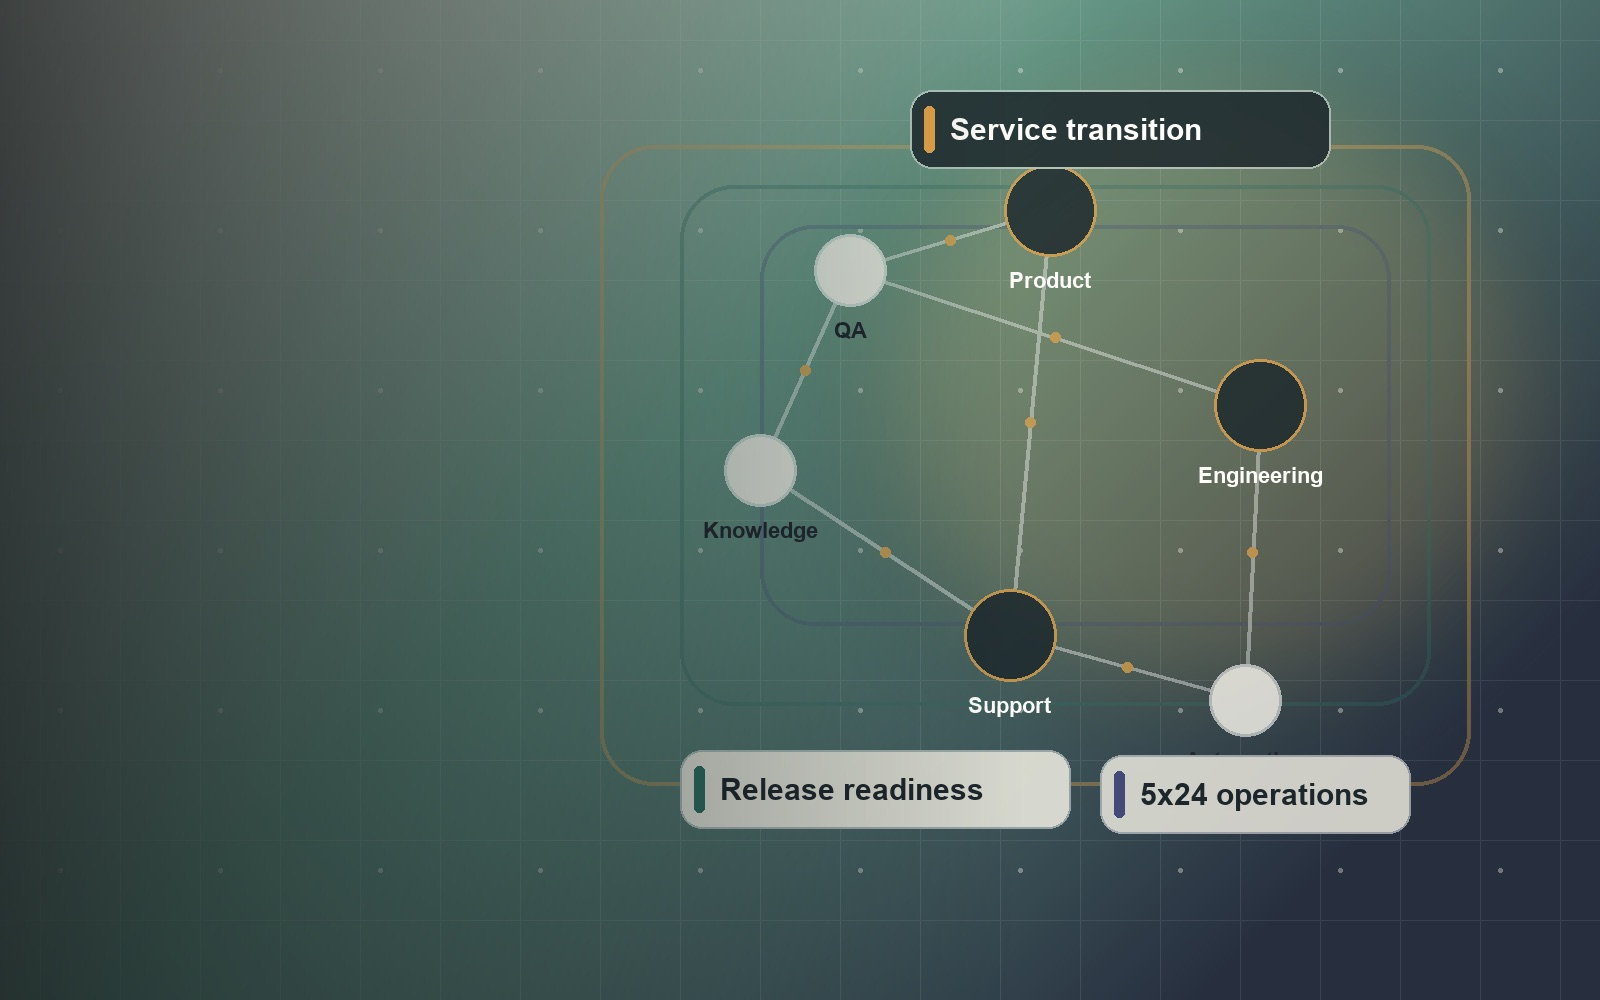
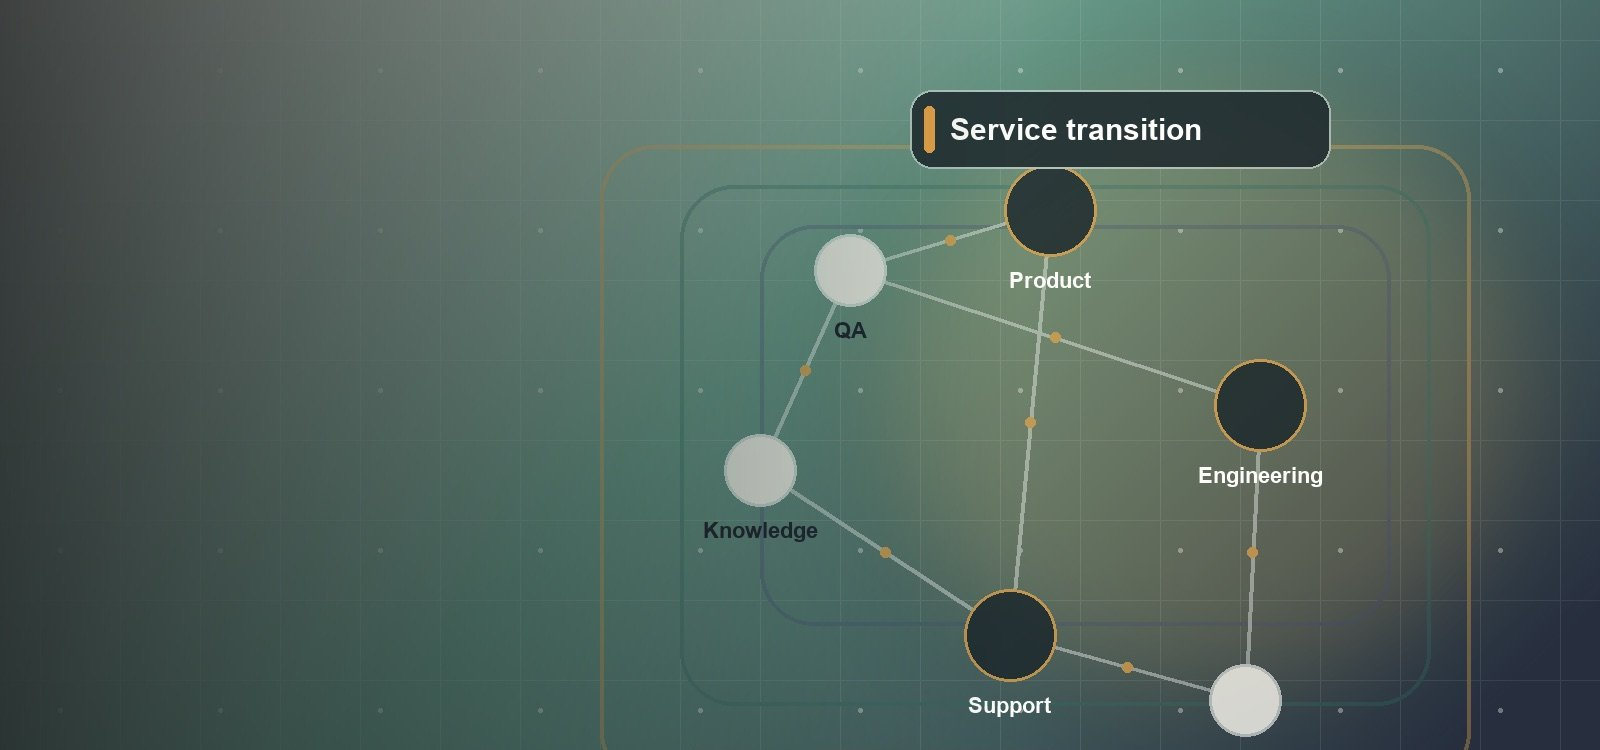
Fix hero background bleed-through and collapse older roles
- Crop the baked-in "Release readiness"/"5x24 operations" text chips
  out of the hero background image entirely, rather than just
  masking them with a gradient (which didn't hold at wide viewports)
- Collapse PCZONE, Taurus and Forst Kron (2009-2019) behind a
  "Show earlier roles" toggle so Experience reads tighter by default
  while keeping the full history one click away

Changed region(s): [[0.375, 0.092, 0.9375, 0.9813], [0.9062, 0.2147, 0.9375, 0.2453], [0.6875, 0.46, 0.7188, 0.4907]]

diff --git a/index.html b/index.html
@@ -324,52 +324,59 @@
               </div>
             </article>
 
-            <article class="timeline-item reveal">
-              <div class="timeline-meta">
-                <img class="company-logo" src="assets/logo-pczone.svg" alt="PCZONE logo" width="180" height="64">
-                <span>Jan 2014 - Oct 2019</span>
-                <strong>PCZONE Online Distributie SRL</strong>
-                <small>Bucharest, Romania</small>
-              </div>
-              <div class="timeline-body">
-                <h3>Engineer</h3>
-                <ul>
-                  <li>Performed technical maintenance and repair for IT equipment and systems, managed service workflows and tracked customer repair processes.</li>
-                  <li>Provided customer support and technical guidance for hardware/software issues, inventory, invoicing and basic accounting operations.</li>
-                </ul>
-              </div>
-            </article>
+            <button class="timeline-toggle" type="button" aria-expanded="false" data-timeline-toggle>
+              <span data-toggle-label>Show 3 earlier roles (2009-2019)</span>
+              <span class="timeline-toggle-icon" aria-hidden="true">+</span>
+            </button>
 
-            <article class="timeline-item reveal">
-              <div class="timeline-meta">
-                <img class="company-logo" src="assets/logo-taurus.svg" alt="Taurus Group logo" width="180" height="64">
-                <span>Feb 2010 - Jan 2014</span>
-                <strong>Taurus Group SRL</strong>
-                <small>Bucharest, Romania</small>
-              </div>
-              <div class="timeline-body">
-                <h3>Senior IT Technician</h3>
-                <ul>
-                  <li>Maintained internal IT infrastructure and company computer networks, ensuring system stability and performance.</li>
-                  <li>Tested software applications, documented bugs and collaborated with development teams on improvements and fixes.</li>
-                </ul>
-              </div>
-            </article>
+            <div class="timeline-earlier" data-timeline-earlier hidden>
+              <article class="timeline-item reveal">
+                <div class="timeline-meta">
+                  <img class="company-logo" src="assets/logo-pczone.svg" alt="PCZONE logo" width="180" height="64">
+                  <span>Jan 2014 - Oct 2019</span>
+                  <strong>PCZONE Online Distributie SRL</strong>
+                  <small>Bucharest, Romania</small>
+                </div>
+                <div class="timeline-body">
+                  <h3>Engineer</h3>
+                  <ul>
+                    <li>Performed technical maintenance and repair for IT equipment and systems, managed service workflows and tracked customer repair processes.</li>
+                    <li>Provided customer support and technical guidance for hardware/software issues, inventory, invoicing and basic accounting operations.</li>
+                  </ul>
+                </div>
+              </article>
 
-            <article class="timeline-item reveal">
-              <div class="timeline-meta">
-                <img class="company-logo" src="assets/logo-forst.svg" alt="Forst Kron logo" width="180" height="64">
-                <span>Oct 2009 - Feb 2010</span>
-                <strong>Forst Kron SRL</strong>
-                <small>Brasov, Romania</small>
-              </div>
-              <div class="timeline-body">
-                <h3>IT Support and Technical Assistance</h3>
-                <ul>
-                  <li>Provided basic hardware, software, network and workstation support; installed and configured operating systems and office applications.</li>
-                </ul>
-              </div>
-            </article>
+              <article class="timeline-item reveal">
+                <div class="timeline-meta">
+                  <img class="company-logo" src="assets/logo-taurus.svg" alt="Taurus Group logo" width="180" height="64">
+                  <span>Feb 2010 - Jan 2014</span>
+                  <strong>Taurus Group SRL</strong>
+                  <small>Bucharest, Romania</small>
+                </div>
+                <div class="timeline-body">
+                  <h3>Senior IT Technician</h3>
+                  <ul>
+                    <li>Maintained internal IT infrastructure and company computer networks, ensuring system stability and performance.</li>
+                    <li>Tested software applications, documented bugs and collaborated with development teams on improvements and fixes.</li>
+                  </ul>
+                </div>
+              </article>
+
+              <article class="timeline-item reveal">
+                <div class="timeline-meta">
+                  <img class="company-logo" src="assets/logo-forst.svg" alt="Forst Kron logo" width="180" height="64">
+                  <span>Oct 2009 - Feb 2010</span>
+                  <strong>Forst Kron SRL</strong>
+                  <small>Brasov, Romania</small>
+                </div>
+                <div class="timeline-body">
+                  <h3>IT Support and Technical Assistance</h3>
+                  <ul>
+                    <li>Provided basic hardware, software, network and workstation support; installed and configured operating systems and office applications.</li>
+                  </ul>
+                </div>
+              </article>
+            </div>
           </div>
         </div>
       </section>

diff --git a/styles.css b/styles.css
@@ -636,6 +636,56 @@ a {
   line-height: 1.3;
 }
 
+.timeline-earlier {
+  display: grid;
+  gap: 18px;
+}
+
+.timeline-earlier[hidden] {
+  display: none;
+}
+
+.timeline-toggle {
+  display: inline-flex;
+  align-items: center;
+  gap: 10px;
+  margin: 4px 0 0 224px;
+  border: 1px dashed var(--line);
+  border-radius: 8px;
+  background: transparent;
+  padding: 12px 18px;
+  color: var(--green-dark);
+  font: inherit;
+  font-weight: 800;
+  cursor: pointer;
+  transition: border-color 160ms ease, background 160ms ease;
+}
+
+.timeline-toggle:hover,
+.timeline-toggle:focus-visible {
+  border-color: rgba(35, 109, 98, 0.5);
+  background: #eaf3ee;
+}
+
+.timeline-toggle-icon {
+  display: inline-flex;
+  width: 18px;
+  height: 18px;
+  flex: 0 0 auto;
+  align-items: center;
+  justify-content: center;
+  border-radius: 999px;
+  background: var(--green);
+  color: #fffdf8;
+  font-size: 0.9rem;
+  line-height: 1;
+  transition: transform 160ms ease;
+}
+
+.timeline-toggle.is-open .timeline-toggle-icon {
+  transform: rotate(45deg);
+}
+
 .role-stack {
   display: grid;
   grid-template-columns: repeat(2, minmax(0, 1fr));
@@ -980,6 +1030,10 @@ a {
   .timeline-meta {
     padding-top: 0;
   }
+
+  .timeline-toggle {
+    margin-left: 44px;
+  }
 }
 
 @media (max-width: 760px) {
@@ -1134,6 +1188,11 @@ a {
 
   .timeline-item {
     padding-left: 32px;
+  }
+
+  .timeline-toggle {
+    margin-left: 32px;
+    width: calc(100% - 32px);
   }
 
   .timeline-body {

diff --git a/script.js b/script.js
@@ -83,6 +83,23 @@ if ("IntersectionObserver" in window && revealItems.length) {
   revealItems.forEach((item) => item.classList.add("is-visible"));
 }
 
+const timelineToggle = document.querySelector("[data-timeline-toggle]");
+const timelineEarlier = document.querySelector("[data-timeline-earlier]");
+const timelineToggleLabel = document.querySelector("[data-toggle-label]");
+
+timelineToggle?.addEventListener("click", () => {
+  const isHidden = timelineEarlier.hidden;
+  timelineEarlier.hidden = !isHidden;
+  timelineToggle.classList.toggle("is-open", isHidden);
+  timelineToggle.setAttribute("aria-expanded", String(isHidden));
+  if (timelineToggleLabel) {
+    timelineToggleLabel.textContent = isHidden ? "Hide earlier roles" : "Show 3 earlier roles (2009-2019)";
+  }
+  if (isHidden) {
+    timelineEarlier.querySelectorAll(".reveal").forEach((item) => item.classList.add("is-visible"));
+  }
+});
+
 copyButton?.addEventListener("click", async () => {
   const email = copyButton.dataset.copyEmail;
   if (!email) {